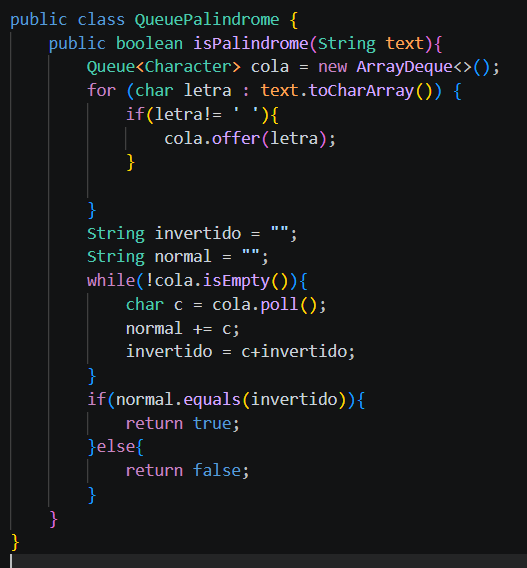
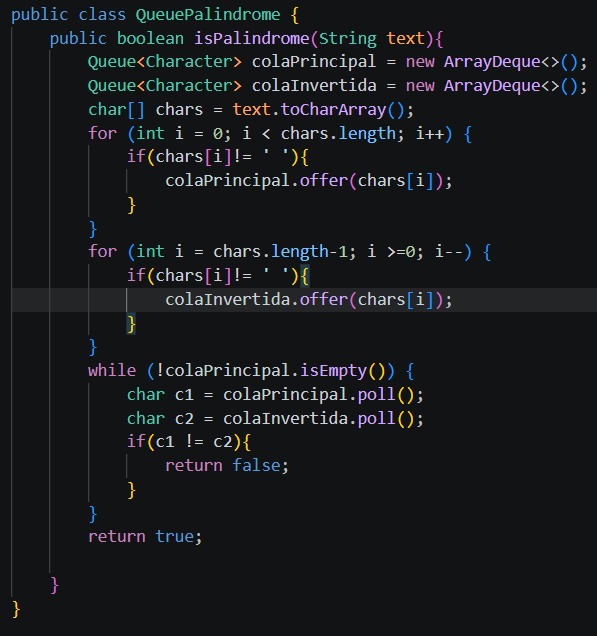
ADD: Ejercicios de estructuras lineales

diff --git a/src/utils/QueuePalindrome.java b/src/utils/QueuePalindrome.java
@@ -5,24 +5,27 @@ import java.util.Queue;
 
 public class QueuePalindrome {
     public boolean isPalindrome(String text){
-        Queue<Character> cola = new ArrayDeque<>();
-        for (char letra : text.toCharArray()) {
-            if(letra!= ' '){
-                cola.offer(letra);
+        Queue<Character> colaPrincipal = new ArrayDeque<>();
+        Queue<Character> colaInvertida = new ArrayDeque<>();
+        char[] chars = text.toCharArray();
+        for (int i = 0; i < chars.length; i++) {
+            if(chars[i]!= ' '){
+                colaPrincipal.offer(chars[i]);
             }
-           
         }
-        String invertido = "";
-        String normal = "";
-        while(!cola.isEmpty()){
-            char c = cola.poll();
-            normal += c;
-            invertido = c+invertido;
+        for (int i = chars.length-1; i >=0; i--) {
+            if(chars[i]!= ' '){
+                colaInvertida.offer(chars[i]);   
+            }         
         }
-        if(normal.equals(invertido)){
-            return true;
-        }else{
-            return false;
+        while (!colaPrincipal.isEmpty()) {
+            char c1 = colaPrincipal.poll();
+            char c2 = colaInvertida.poll();
+            if(c1 != c2){
+                return false;
+            }
         }
+        return true;
+       
     }
 }

diff --git a/src/App.java b/src/App.java
@@ -18,7 +18,8 @@ public class App {
         System. out.println ("\nEjercicio 03: Palindromo usando Colas");
         System.out.println ("ana | Resultado: " + queuePalindrome.isPalindrome("ana"));
         System. out. println ("radar | Resultado: " + queuePalindrome. isPalindrome ("radar") ) ;
-        System. out . println ("java | Resultado: " + queuePalindrome.isPalindrome ("java") ) ;
+        System. out. println ("java | Resultado: " + queuePalindrome. isPalindrome ("java") ) ;
+        System. out . println ("anita lava la tina | Resultado: " + queuePalindrome.isPalindrome ("anita lava la tina") ) ;
   
     }
 

diff --git a/README.md b/README.md
@@ -43,7 +43,7 @@ Se puede observar en consola que el satck fue ordenado de mayor a menor usando u
 ## Ejercicio 03: Palindromo usando colas
 
 ### Explicacion
-En este ejercicio se creó una clase llamada QueuePalindrome usando una cola con ArrayDeque. Su función es revisar si una palabra es un palindromo como en la anterior. Se encarga de recorrer el texto caracter por coaracter tambien se pidio que si se usa una frase se pueda ignorar espacios y por eso se construyen dos cadenas: una en orden normal y otra en orden invertido. Si ambas cadenas son iguales el metodo devuelve true y si son diferentes devuelve false.
+En este ejercicio se creó una clase llamada QueuePalindrome usando dos colas con ArrayDeque. Su función es convertir el texto en un arreglo de caracteres. Luego se va a encargar de llenar la colaPrincipal de izquierda a derecha y colaInvertida de derecha a izquierda, tambien le colocamos un if para ignorar espacios en caso de tener una frase. Para finalizar, compara caracter a caracter usando el poll() en ambas colas no se compara el string con la palabra invertida como en la anterior practica. Al finalizar si todos los caracteres coinciden, devuleve true caso contrario devuelve false.
 
 
 ### Codigo
@@ -62,4 +62,4 @@ Las pilas permiten validar los signos de apertura y cierre recorriendo la cadena
 Ordenar un stack sin usar arreglos ni listas es posible usando solo un stack auxiliar, sacando cada elemento y recolocando los que no corresponden hasta que aux quede ordenado y al devolverlo de regreso el menor queda en el tope.
 
 ### Conclusión 3:
-Las colas permiten resolver problemas de comparación de cadenas como los palíndromos, porque al recorrer los elementos en orden se puede construir y comparar la cadena original con su versión invertida.
+Determinar si una palabra es palindromo usando colas llenando una cola en orden normal y otra en orden inverso y comparando caracter por caracter sin necesidad de comparar directamente el string original con su version invertida.
